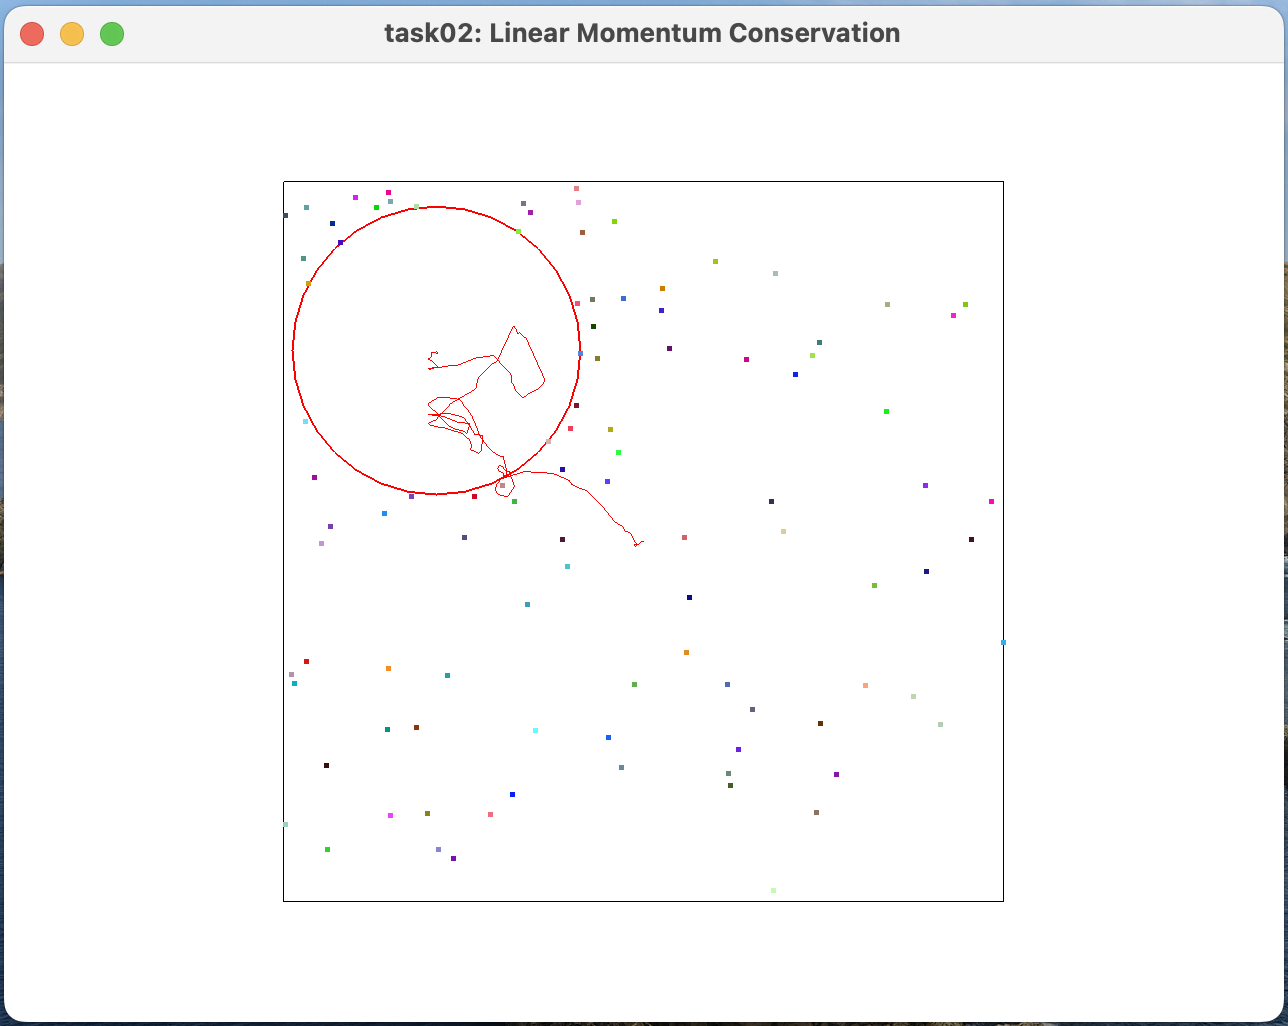
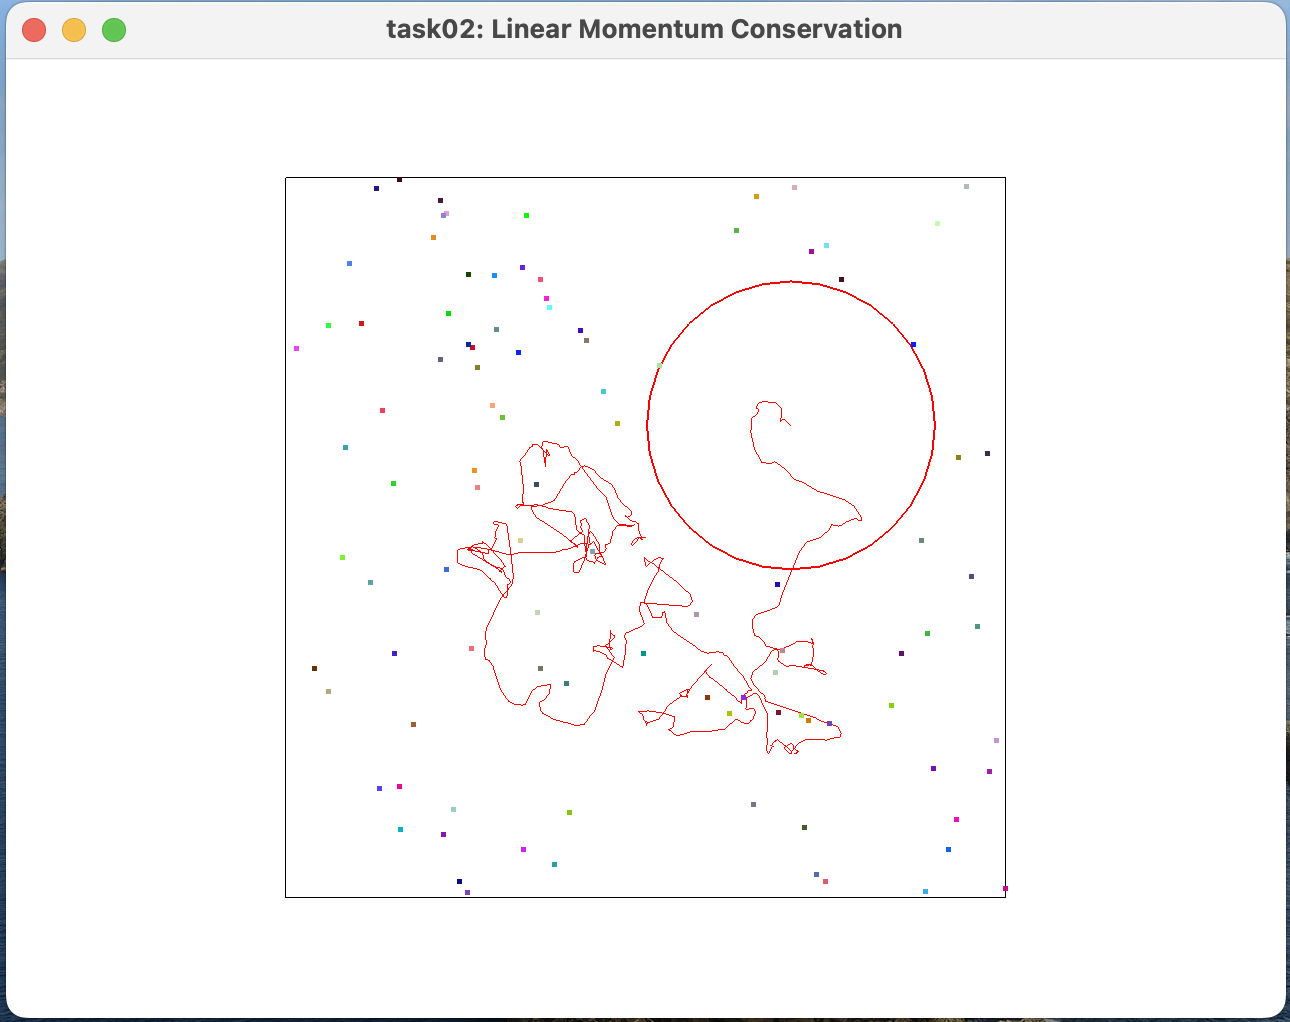
fixed

diff --git a/task02/main.cpp b/task02/main.cpp
@@ -62,9 +62,9 @@ void collide_particle_ball(
   // please uncomment the lines below
   const float p_velo_perp = p.velo.dot(plane_norm);
   const float ball_velo_perp = ball_velo.dot(plane_norm);
-  const Eigen::Vector2f impulse = ((2 * particle_mass * p_velo_perp + ball_mass * ball_velo_perp - particle_mass * ball_velo_perp) / (particle_mass + ball_mass) - p_velo_perp) * particle_mass * plane_norm;
-  p.velo += impulse / particle_mass;
-  ball_velo += -impulse / ball_mass;
+  const Eigen::Vector2f impulse = ((2 * particle_mass * p_velo_perp + ball_mass * ball_velo_perp - particle_mass * ball_velo_perp) / (particle_mass + ball_mass) - ball_velo_perp) * ball_mass * plane_norm;
+  p.velo += -impulse / particle_mass;
+  ball_velo += impulse / ball_mass;
 }
 
 /**
